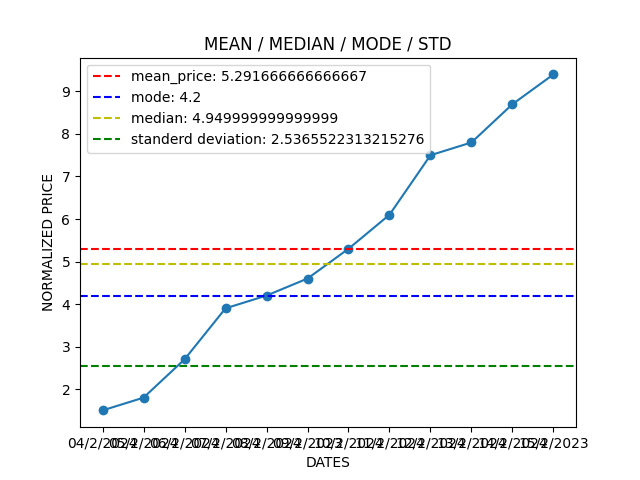
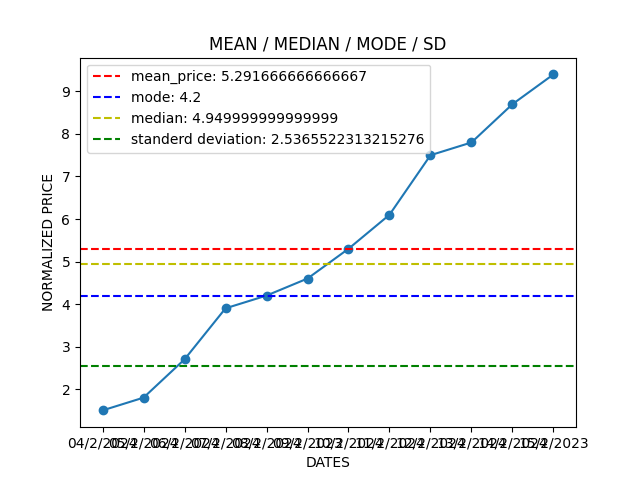
changes added

Changed region(s): [[0.3125, 0.0625, 0.7188, 0.125]]

diff --git a/db_ploting.py b/db_ploting.py
@@ -29,7 +29,7 @@ while True:
     mean_price = sum(npricez) / len(npricez)
     median = statistics.median(npricez)
     mode = statistics.mode(npricez)
-    std = np.std(npricez)
+    sd = np.std(npricez)
     
     x = np.array(sorted(date))
     y = np.array(sorted(pd.to_numeric(nprice)))
@@ -43,9 +43,9 @@ while True:
     plt.axhline(y=mean_price, color='r', linestyle='--', label=f"mean_price: {mean_price}")
     plt.axhline(y=mode, color='b', linestyle='--', label=f"mode: {mode}")
     plt.axhline(y=median, color='y', linestyle='--', label=f"median: {median}")
-    plt.axhline(y=std, color='g', linestyle='--', label=f"standerd deviation: {std}")
+    plt.axhline(y=sd, color='g', linestyle='--', label=f"standerd deviation: {sd}")
     
-    plt.title("MEAN / MEDIAN / MODE / STD")
+    plt.title("MEAN / MEDIAN / MODE / SD")
     plt.xlabel("DATES")
     plt.ylabel("NORMALIZED PRICE")
     plt.legend()
